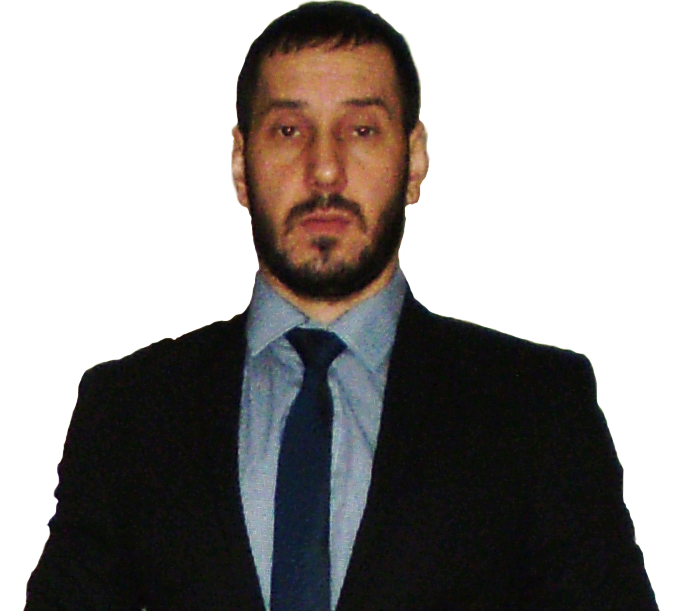
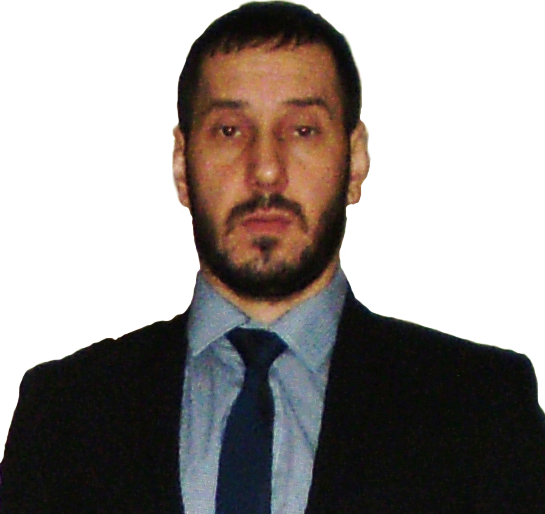
Updates

Changed region(s): [[0.0, 0.0, 1.0, 1.0], [0.1872, 0.9961, 0.2183, 1.0]]

diff --git a/style.css b/style.css
@@ -237,20 +237,23 @@ color: #f4f4f4;
 #about .img-box{
 width: 200px;
 height: 200px;
-z-index: 2;
 position: relative;
-perspective: 500px;
 display: flex;
-overflow: hidden;
 border-radius: 50%;
-align-self: center;
-border: inset 10px #996600;
+background: #996600;
+align-self: baseline;
+background: linear-gradient(to left, grey, #7777);
+border: ridge 10px  #996600;
+overflow: hidden;
 }
+
 #about .img-box img{
-margin: auto;
-width: auto;
+width: 100%;
+position: absolute;
 height: 100%;
-animation: imageShow 2s linear forwards;
+bottom: 0;
+left: 0;
+z-index: 2;
 }
 
 /*=================== SKILLS ======================*/
@@ -271,9 +274,11 @@ min-height: 300px;
 text-align: center;
 border: solid 2px #996600;
 border-radius: 0;
-box-shadow: inset 2px 0 5px 0px #fff,
+box-shadow: inset 2px 0 5px 0px rgba(0,0,0,0.5),
+            inset 3px 0 5px 0px #fff,
+            inset 5px 0 10px 0px rgba(0,0,0,0.5),
             inset -5px -5px 10px -5px rgba(0,0,0,1),
-            inset -15px -15px 20px -10px rgba(0,0,0,0.5);
+            inset -15px -15px 20px -10px rgba(0,0,0,0.7);
 }
 .box img{
 height: 80px;
@@ -315,14 +320,14 @@ margin-top: 30px;
 width: 100%;
 display: grid;
 grid-gap: 20px;
-grid-template-columns: repeat(auto-fit,minmax(250px, 1fr));
+grid-template-columns: repeat(auto-fit,minmax(300px, 1fr));
 }
 
 #projects .project{
 width: 100%;
 height: 300px;
 grid-column: ;
-background: #ffc600;
+background: linear-gradient( 45deg, #ffc600, #996600);
 color: var(--secondary-color);
 display: flex;
 position: relative;
@@ -330,9 +335,7 @@ flex-direction: column;
 align-items: center;
 justify-content: center;
 overflow: hidden;
--webkit-clip-path: polygon(50% 0%, 100% 25%, 100% 75%, 50% 100%, 0% 75%, 0% 25%);
--ms-clip-path: polygon(50% 0%, 100% 25%, 100% 75%, 50% 100%, 0% 75%, 0% 25%);
-clip-path: polygon(50% 0%, 100% 25%, 100% 75%, 50% 100%, 0% 75%, 0% 25%);
+border-radius: 30px;
 }
 #projects .project .description{
 position: absolute;
@@ -340,7 +343,7 @@ height: 100%;
 width: 100%;
 top: 0;
 transform: translateY(80%);
-transition: 1s;
+transition: 0.5s;
 background: var(--dark-grey-color);
 color: #fff;
 display: flex;
@@ -366,7 +369,7 @@ position: relative;
 .project-image{
 position: relative;
 width: 100%;
-height: 70%;
+height: 80%;
 background: purple;
 }
 .project-image img{
